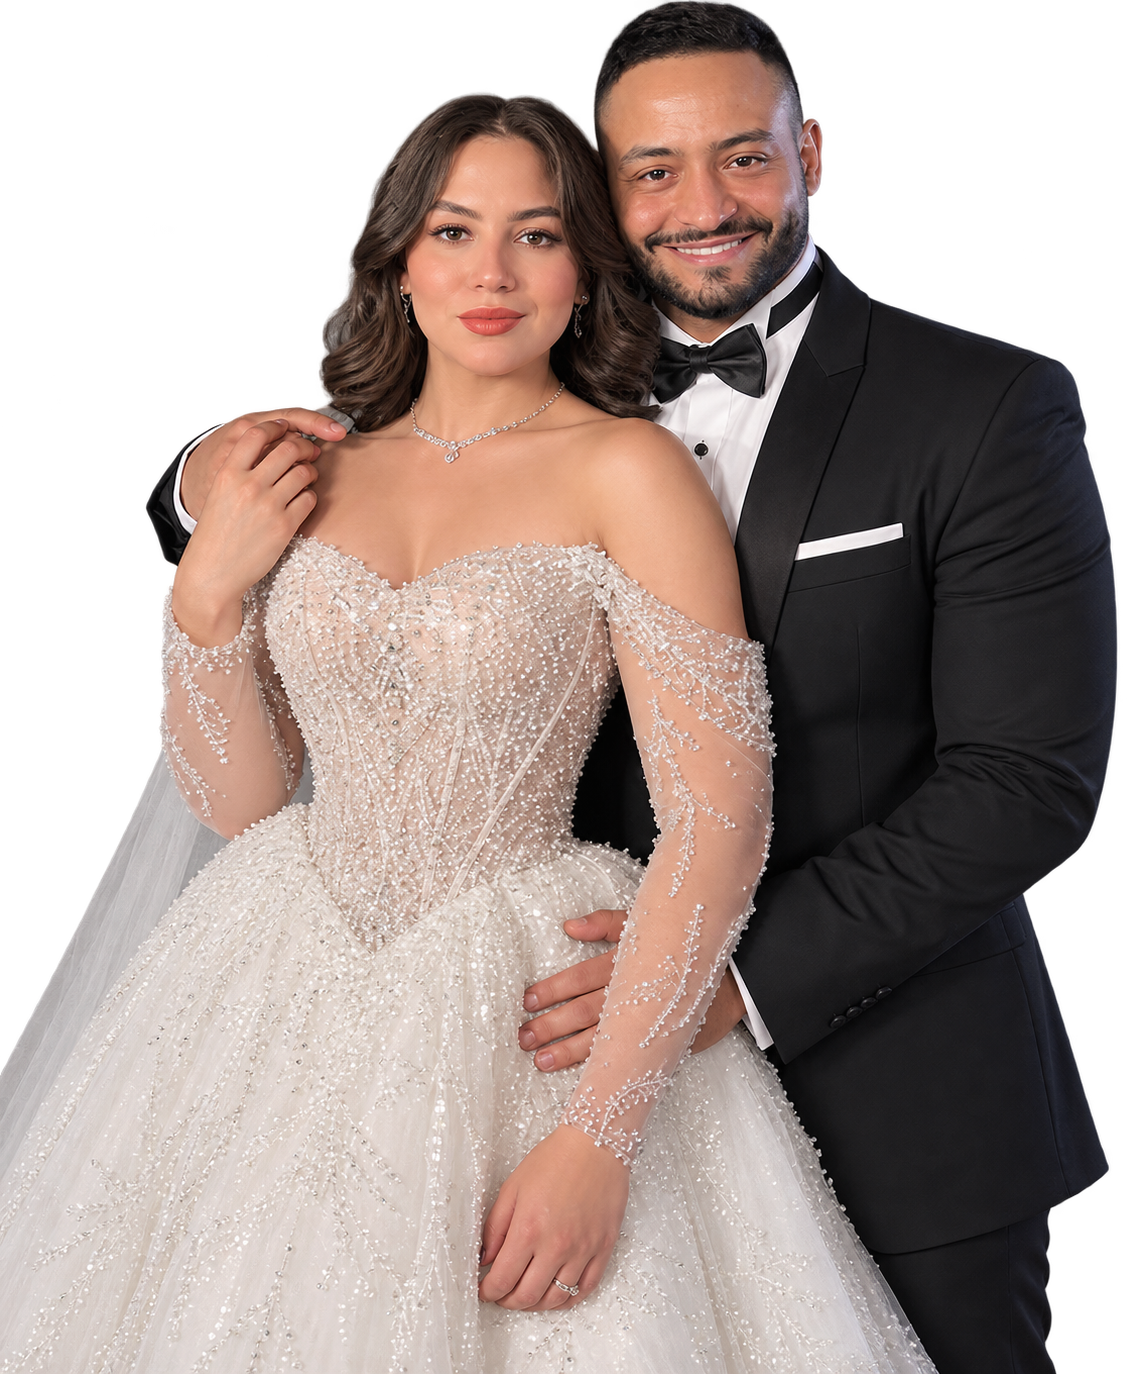
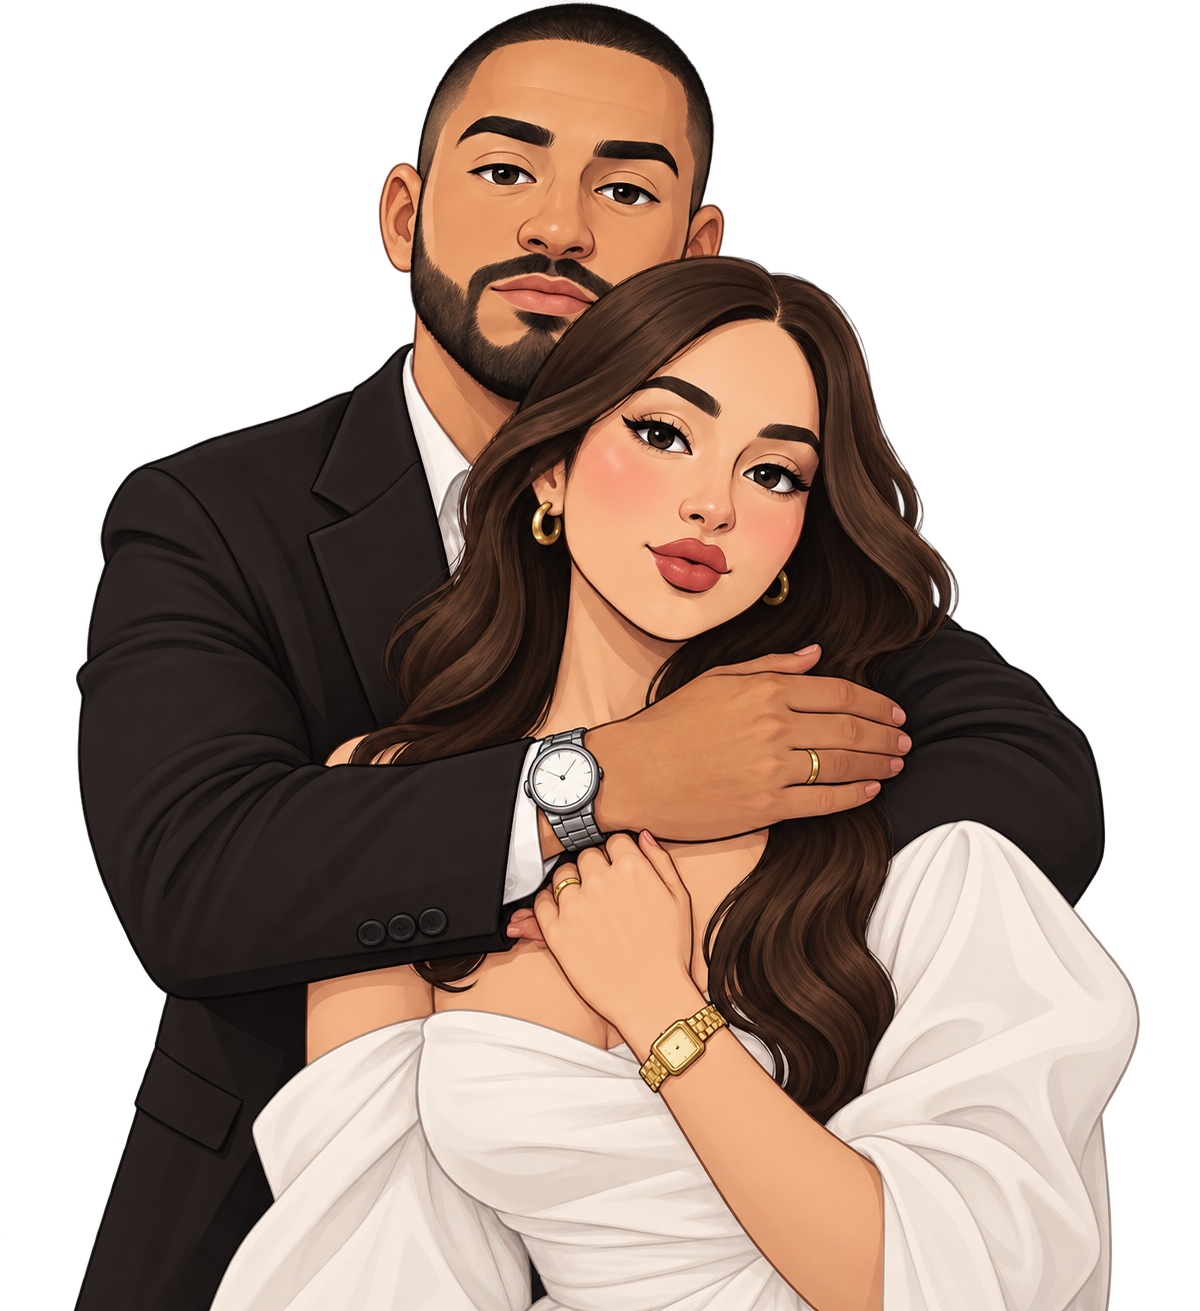
up

diff --git a/index.html b/index.html
@@ -99,7 +99,7 @@
   /* Photo box in design pixels (page is 480 wide). Make it bigger/smaller by
      changing these four numbers; the photo always sits on the bottom edge. */
   .photo {
-    --px: 36;  --pw: 408;    /* left edge, width   */
+    --px: 70;  --pw: 340;    /* left edge, width   */
     --py: 2062; --ph: 504;   /* top edge,  height (bottom = 2566, the pink ledge) */
     position: absolute;
     left:   calc(var(--px) / 480 * 100%);
